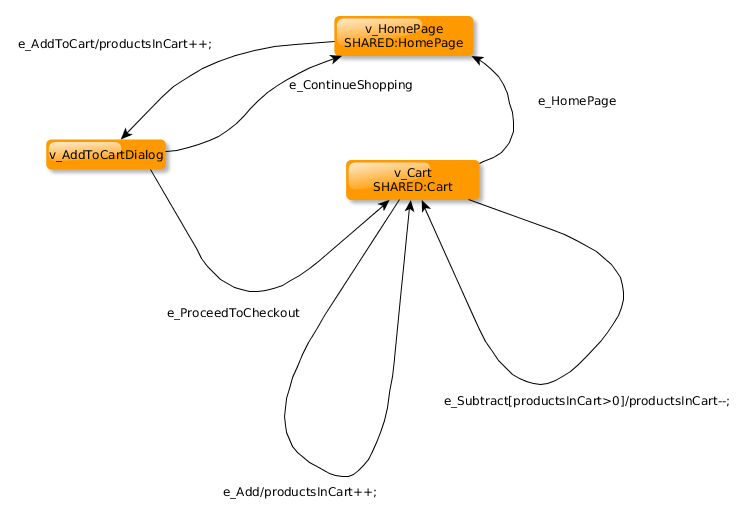
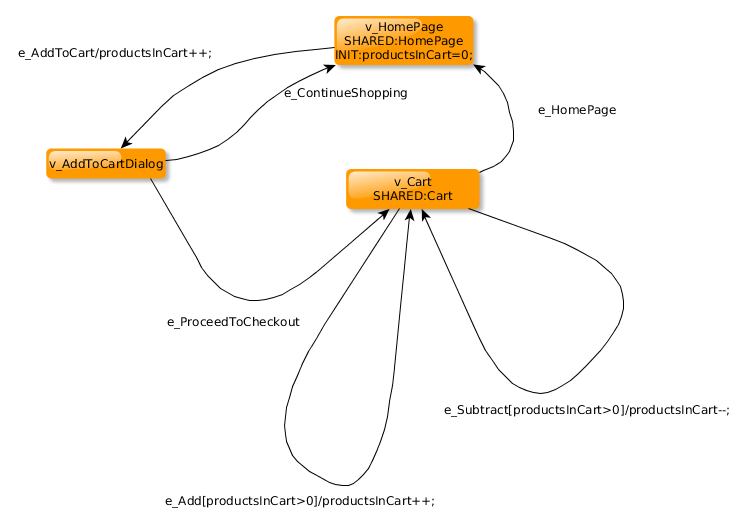
Fix some vertices and edges. Fix undefined variable productsInCart

diff --git a/src/main/java/com/company/modelimplementations/AddToCart.java b/src/main/java/com/company/modelimplementations/AddToCart.java
@@ -26,42 +26,43 @@ public class AddToCart extends ExecutionContext implements AddToCartState {
 
     @Override
     public void v_AddToCartDialog() {
-        Assert.assertTrue(Helper.WaitForElement(By.xpath("//div[@id='layer_cart']//div[contains(@class,'layer_cart_product')]/h2")).getText().contains("Product successfully added to your shopping cart"));
+        Assert.assertTrue(Helper.waitForElement(By.xpath("//div[@id='layer_cart']//div[contains(@class,'layer_cart_product')]/h2")).getText().contains("Product successfully added to your shopping cart"));
     }
 
     @Override
     public void e_ProceedToCheckout() {
-        Helper.WaitForElement(By.xpath("//a[@title='Proceed to checkout']")).click();
+        Helper.waitForElement(By.xpath("//a[@title='Proceed to checkout']")).click();
     }
 
     @Override
     public void e_HomePage() {
-        Helper.WaitForElement(By.xpath("//a[@title='Return to Home']")).click();
+        Helper.waitForElement(By.xpath("//a[@title='Return to Home']")).click();
     }
 
     @Override
     public void e_AddToCart() {
-        List<WebElement> buttons = Helper.WaitForElements(By.xpath("//a[contains(@class, 'ajax_add_to_cart_button')]"));
-        WebElement button = buttons.get((new Random()).nextInt(buttons.size()));
+        List<WebElement> products = Helper.waitForElements(By.xpath("//ul[@id='homefeatured']/li/div[@class='product-container']"));
+        WebElement product = products.get((new Random()).nextInt(products.size()));
+        WebElement button = product.findElement(By.xpath("//a[@title='Add to cart']"));
         Actions builder = new Actions(Helper.getInstance());    
-        builder.moveToElement(button).click(button);    
+        builder.moveToElement(product).moveToElement(button).click(button);    
         builder.perform();
         log.info("Products in cart: " + getAttribute("productsInCart"));
     }
 
     @Override
     public void e_ContinueShopping() {
-        Helper.WaitForElement(By.xpath("//span[@title='Continue shopping']")).click();
+        Helper.waitForElement(By.xpath("//span[@title='Continue shopping']")).click();
     }
 
     @Override
     public void v_Cart() {
-        Assert.assertTrue(Helper.WaitForElement(By.xpath("//h1[@class='cart_title']")).getText().contains("Shopping-cart summary"));
+        Assert.assertTrue(Helper.waitForElement(By.xpath("//h1[@id='cart_title']")).getText().contains("SHOPPING-CART SUMMARY"));
     }
 
     @Override
     public void e_Subtract() {
-        List<WebElement> buttons = Helper.WaitForElements(By.xpath("//a[contains(@class='button-minus')]"));
+        List<WebElement> buttons = Helper.waitForElements(By.xpath("//a[@title='Subtract']"));
         WebElement button = buttons.get((new Random()).nextInt(buttons.size()));
         Actions builder = new Actions(Helper.getInstance());    
         builder.moveToElement(button).click(button);    
@@ -71,7 +72,7 @@ public class AddToCart extends ExecutionContext implements AddToCartState {
 
     @Override
     public void e_Add() {
-        List<WebElement> buttons = Helper.WaitForElements(By.xpath("//a[contains(@class='button-plus')]"));
+        List<WebElement> buttons = Helper.waitForElements(By.xpath("//a[@title='Add']"));
         WebElement button = buttons.get((new Random()).nextInt(buttons.size()));
         Actions builder = new Actions(Helper.getInstance());    
         builder.moveToElement(button).click(button);    
@@ -81,6 +82,6 @@ public class AddToCart extends ExecutionContext implements AddToCartState {
 
     @Override
     public void v_HomePage() {
-        Assert.assertTrue(Helper.WaitForElement(By.xpath("//ul[contains(@class,'htmlcontent-home')]")).findElements(By.tagName("li")).size() == 5);
+        Helper.assertPath("/index.php");
     }
 }

diff --git a/src/main/java/com/company/modelimplementations/AutomationPractice.java b/src/main/java/com/company/modelimplementations/AutomationPractice.java
@@ -7,6 +7,8 @@ import org.graphwalker.core.machine.ExecutionContext;
 import org.graphwalker.java.annotation.*;
 import org.junit.Assert;
 import org.openqa.selenium.By;
+import java.util.regex.Pattern;
+import java.util.regex.Matcher;
 
 /**
  * Implements the model (and interface) AutomationPracticeSharedState
@@ -19,32 +21,34 @@ public class AutomationPractice extends ExecutionContext implements AutomationPr
 
     @Override
     public void v_Cart() {
-        Assert.assertTrue(Helper.WaitForElement(By.xpath("//h1[@class='cart_title']")).getText().contains("Shopping-cart summary"));
+        Assert.assertTrue(Helper.waitForElement(By.xpath("//h1[@id='cart_title']")).getText().contains("SHOPPING-CART SUMMARY"));
     }
 
     @Override
     public void e_HomePage() {
-        Helper.WaitForElement(By.xpath("//a[@title='Return to Home']")).click();
+        Helper.waitForElement(By.xpath("//a[@title='Return to Home']")).click();
     }
 
     @Override
     public void e_SearchProducts() {
-        Helper.WaitForElement(By.xpath("//button[contains(@class,'button-search')]")).click();
+        Helper.waitForElement(By.xpath("//button[contains(@class,'button-search')]")).click();
     }
 
     @Override
     public void v_SearchProducts() {
-        Assert.assertTrue(Helper.WaitForElement(By.xpath("//h1[contains(@class,'product-listing')]")).getText().contains("Search"));
+        Pattern p = Pattern.compile("SEARCH\\s+\\d+ results have been found.");
+        Matcher m = p.matcher(Helper.waitForElement(By.xpath("//h1[contains(@class,'product-listing')]")).getText());
+        Assert.assertTrue(m.find());
     }
 
     @Override
     public void e_Cart() {
-        Helper.WaitForElement(By.xpath("//div[@class='shopping_cart']")).click();
+        Helper.waitForElement(By.xpath("//a[@title='View my shopping cart']")).click();
     }
 
     @Override
     public void v_HomePage() {
-        Assert.assertTrue(Helper.WaitForElement(By.xpath("//ul[contains(@class,'htmlcontent-home')]")).findElements(By.tagName("li")).size() == 5);
+        Helper.assertPath("/index.php");
     }
 
     @Override

diff --git a/src/main/java/com/company/helper/Helper.java b/src/main/java/com/company/helper/Helper.java
@@ -10,6 +10,8 @@ import org.openqa.selenium.chrome.ChromeDriver;
 import org.slf4j.Logger;
 import org.slf4j.LoggerFactory;
 import io.github.bonigarcia.wdm.ChromeDriverManager;
+import java.net.MalformedURLException;
+import java.net.URL;
 
 /**
  * Created by krikar on 2015-02-01.
@@ -60,7 +62,7 @@ public class Helper {
      * @param by The description of the element
      * @return The matching element if found.
      */
-    public static WebElement WaitForElement(By by) {
+    public static WebElement waitForElement(By by) {
         for (int second = 0; ; second++) {
             if (second >= timeOut) {
                 Assert.fail("Timeout occurred while waiting for: " + by.toString());
@@ -85,7 +87,7 @@ public class Helper {
      * @param by The description of the element
      * @return A list of matching element(s) if found.
      */
-    public static List<WebElement> WaitForElements(By by) {
+    public static List<WebElement> waitForElements(By by) {
         for (int second = 0; ; second++) {
             if (second >= timeOut) {
                 Assert.fail("timeout");
@@ -100,6 +102,20 @@ public class Helper {
                 Thread.sleep(1000);
             } catch (InterruptedException e) {
             }
+        }
+    }
+
+    /**
+     * Assert path of current url.
+     *
+     * @param path Expected path
+     */
+    public static void assertPath(String path) {
+        try {
+            URL url = new URL(INSTANCE.getCurrentUrl());
+            Assert.assertEquals(path, url.getPath());
+        } catch (MalformedURLException e) {
+            Assert.fail("Invalid url");
         }
     }
 }
